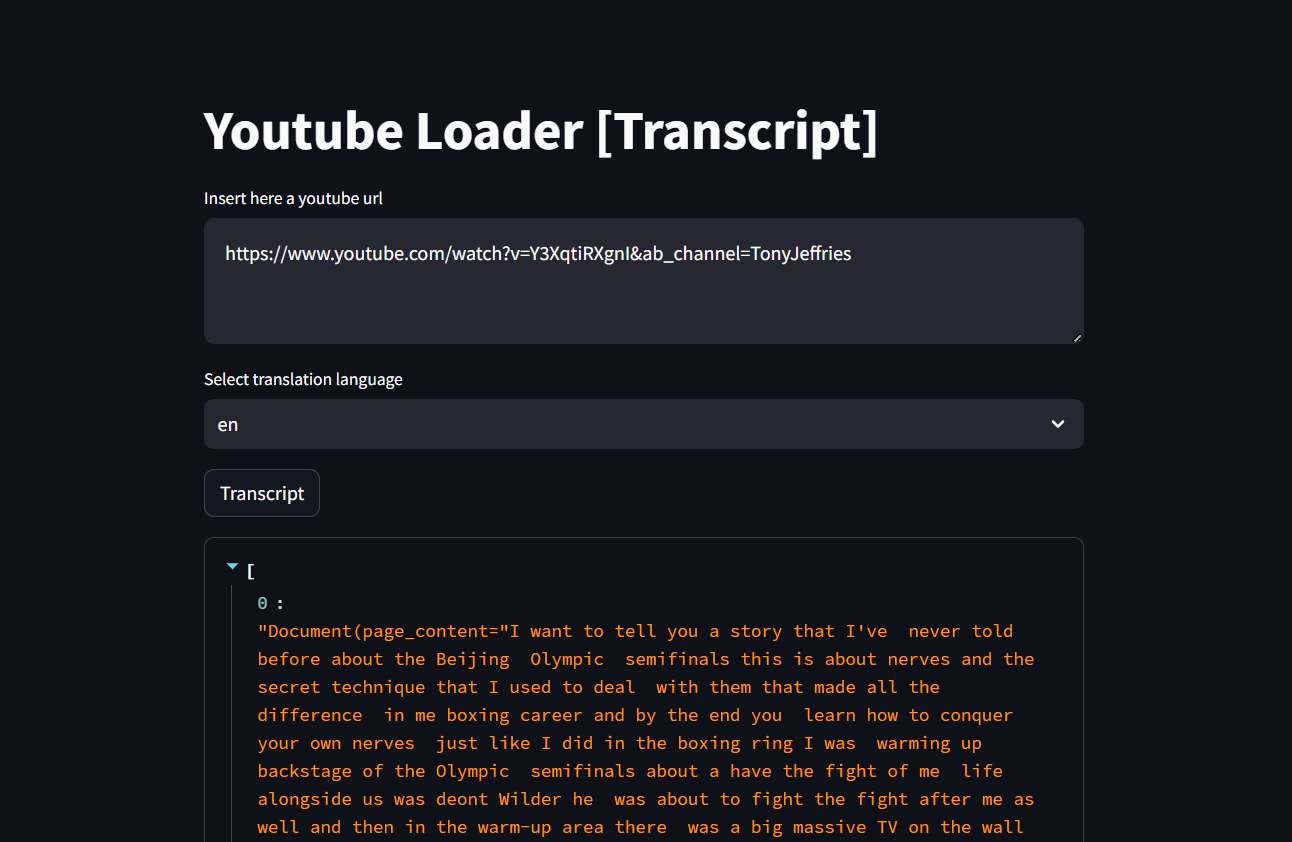
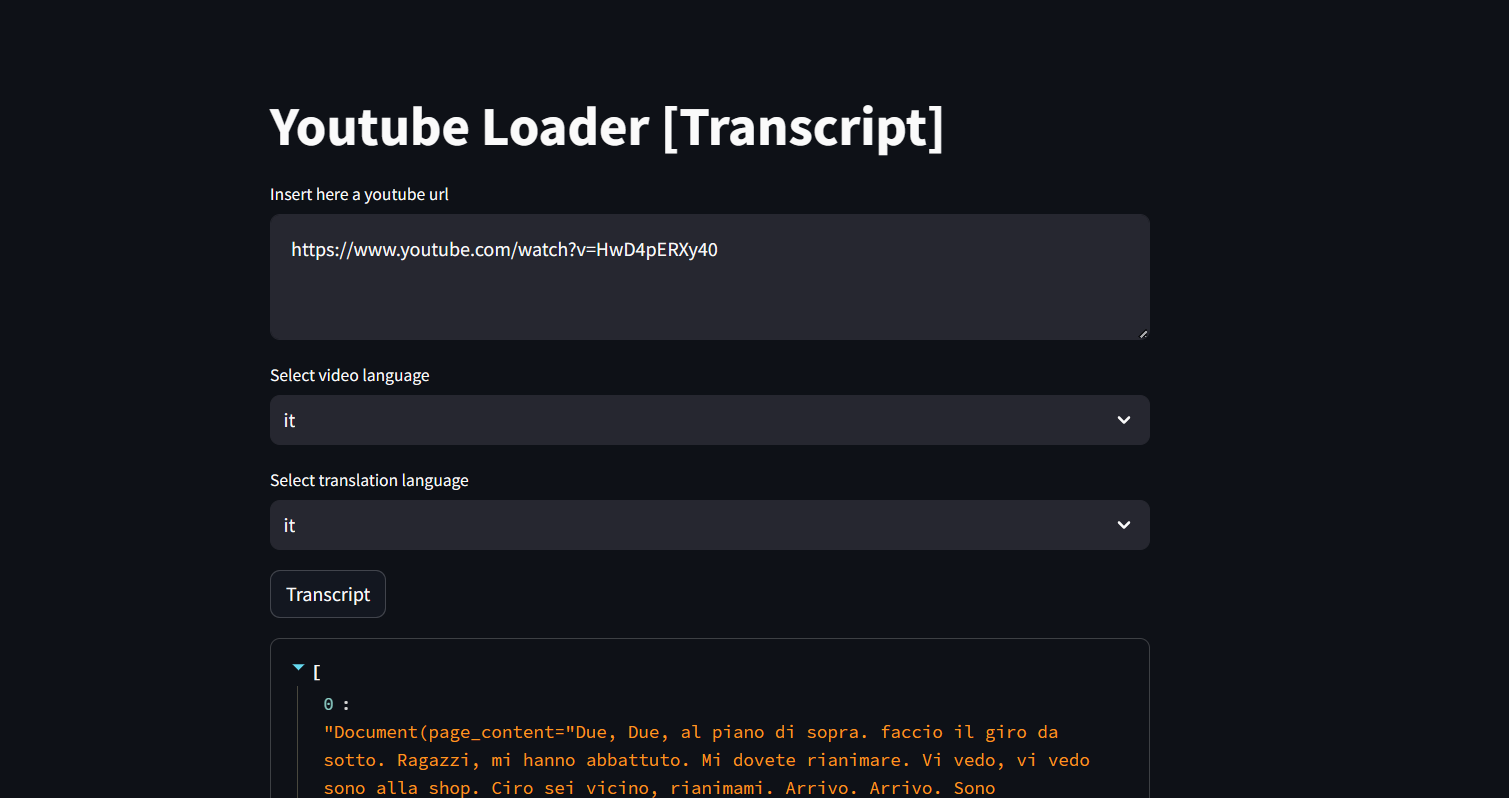
- select video language - update documentation

Changed region(s): [[0.1548, 0.2105, 0.8359, 1.0], [0.1548, 0.1203, 0.6811, 0.2105]]

diff --git a/app.py b/app.py
@@ -14,11 +14,13 @@ def transcript_video(yt_video_url: str, add_video_info: bool, languages: list, t
 
 st.title("Youtube Loader [Transcript]")
 st.text_area("Insert here a youtube url", key="yt_url_input")
+st.selectbox(label="Select video language", key="video_lang", options=("en", "it", "fr", "de"), index=0)
 st.selectbox(label="Select translation language", key="translation_lang", options=("en", "it"), index=0)
 if st.button("Transcript"):
     yt_url = st.session_state.yt_url_input
     translation_lang = st.session_state.translation_lang
+    video_lang = st.session_state.video_lang
     with st.spinner("Getting transcription ..."):
-        video_transcription = transcript_video(yt_url, True, ["en"], translation_lang)
+        video_transcription = transcript_video(yt_url, True, [video_lang], translation_lang)
         with st.container(border=True):
             st.json(video_transcription)

diff --git a/README.md b/README.md
@@ -2,7 +2,7 @@
 Welcome to Youtube Loader [Transcript], a Python package for extracting transcriptions from YouTube videos! This tool allows you to quickly and easily retrieve transcriptions in different languages, making it convenient for various language processing tasks.
 
 ## Features
-- Extract transcriptions from YouTube videos.
+- Extract transcriptions from YouTube videos (not all languages supported).
 - Support for multiple languages. (translate a youtube transcription [English and Italian supported])
 - Simple and easy-to-use interface.
 
